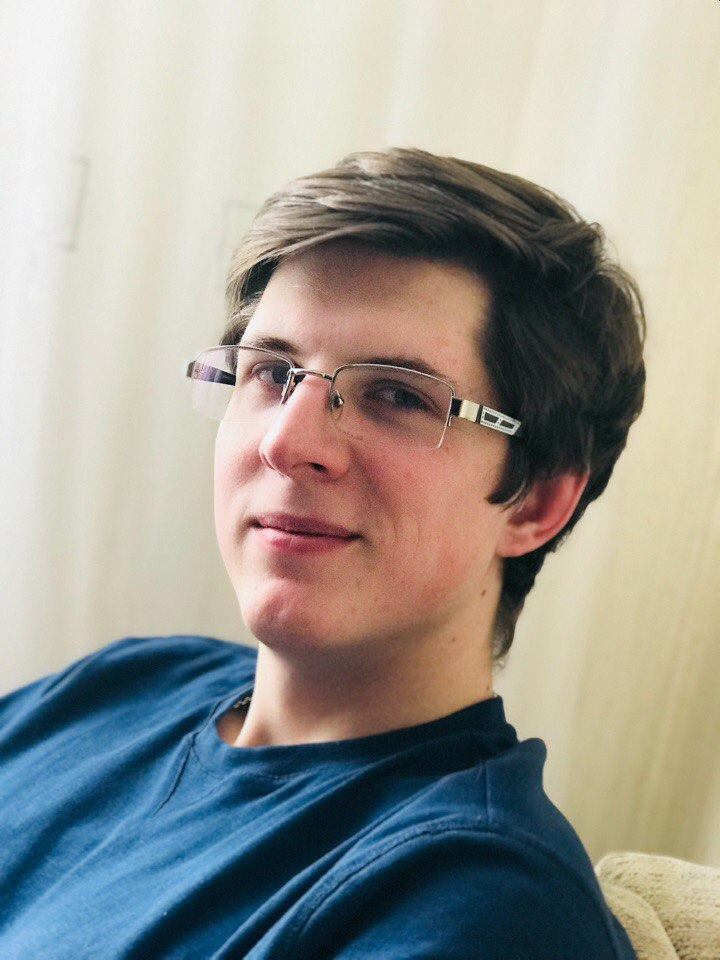
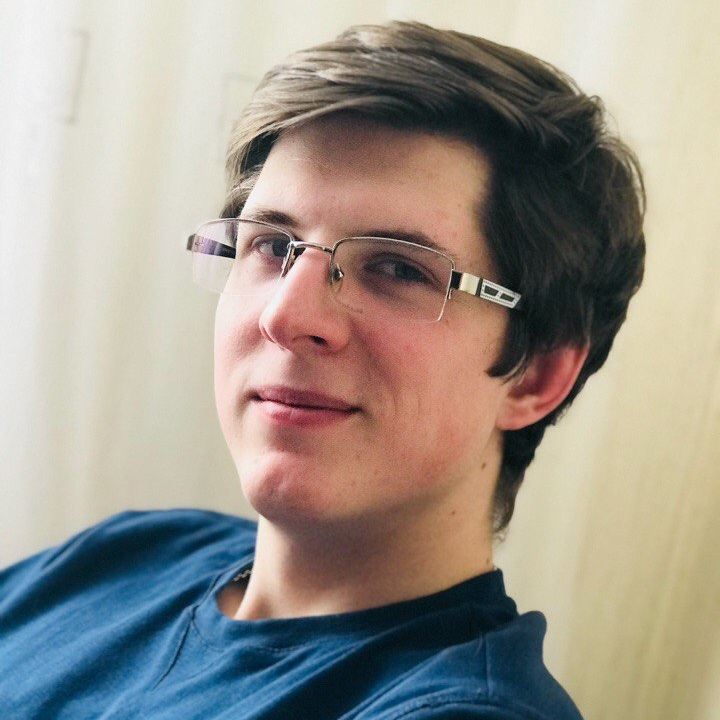
feat: add script.js

diff --git a/index.html b/index.html
@@ -5,67 +5,84 @@
    </title>
    <link rel="stylesheet" type="text/css" href="css/style.css">
    <meta http-equiv="Cotent-type" content="text/html;charset=utf-8">
+   <meta name="vieport" content="width=device-width"> 
 </head>
 <body>
-   <div class="contact">
+   <header>
+      <nav>
+         <ul>
+            <li>Shkel Egor</li>
+            <li>About me</li>
+            <li>Code examples</li>
+            <li>Work experience</li>
+            <li>Education</li>
+         </ul>
+      </nav>
+   </header>
+   <main>
       <div class="contact-info">
-         <h1>Shkel Egor</h1>
-         <p class="phone">
-            Phone: +375 (25) 731-87-85
+         <div class="my-photo-container">
+            <img src="/img/my_photo.jpg" alt="" class="my-photo">
+         </div>
+         <div class="info">
+            <h1>Shkel Egor</h1>
+            <p class="phone">
+               Phone: +375 (25) 731-87-85
+            </p>
+            <p class="email">
+               Email: skelegor8@gmail.com
+            </p>
+         </div>
+      </div>
+      <div class="about-me">
+         <h2>About me</h2>
+         <p>
+            I graduated from Minsk Radioengineering College in 2013 and I graduated from Belarusian State University of Informatics and Radioelectronics in 2021. My major is system engineer. I’ve learned English language for 1 years. I studied English at the International House. Now I’m learning English at home with Cambridge’s book by Muyphy. I sometimes listen to the radio. I have a pre-intermediate level. I enjoy learning English
          </p>
-         <p class="email">
-            Email: skelegor8@gmail.com
+         <br>
+         <p>
+            My specialty in college was programming. When I graduated from college, I decided to go to university and study systems engineering. I had different subjects, for example, control programming, testing, creating interface templates, etc. I think that studying at the university is more interesting than in college. The teachers at the college were very young and did not know their subject, but we have good teachers at the university.
          </p>
       </div>
-   </div>
-   <div class="about-me">
-      <h2>About me</h2>
-      <p>
-         I graduated from Minsk Radioengineering College in 2013 and I graduated from Belarusian State University of Informatics and Radioelectronics in 2021. My major is system engineer. I’ve learned English language for 1 years. I studied English at the International House. Now I’m learning English at home with Cambridge’s book by Muyphy. I sometimes listen to the radio. I have a pre-intermediate level. I enjoy learning English
-      </p>
-      <br>
-      <p>
-         My specialty in college was programming. When I graduated from college, I decided to go to university and study systems engineering. I had different subjects, for example, control programming, testing, creating interface templates, etc.I think that studying at the university is more interesting than in college. The teachers at the college were very young and did not know their subject, but we have good teachers at the university.
-      </p>
-   </div>
-   <div class="code-example">
-      <h2>Code examples</h2>
-      <div class="code">
-         <p>function multiply(a, b){</p>
-         <p>   return a * b;</p>
-         <p> }</p>
+      <div class="code-example">
+         <h2>Code examples</h2>
+         <div class="code">
+            <p>function multiply(a, b){</p>
+            <p>   return a * b;</p>
+            <p> }</p>
+         </div>
+         <br>
+         <div class="code">
+            <p>function disemvowel(str) {</p>
+            <p>return str.replace(/[AaEeIiOoUu]/g, '');</p>
+            <p>}</p>
+         </div>
       </div>
-      <br>
-      <div class="code">
-         <p>function disemvowel(str) {</p>
-         <p>return str.replace(/[AaEeIiOoUu]/g, '');</p>
-         <p>}</p>
+      <div class="work-experience">
+         <h2>Work experience</h2>
+         <p>
+            Now I’m working as a specialist in search engine optimization for an online store. I promote the website in the search engines Google and Yandex. This sphere is dying. Because buying ads in Google and Yandex search engines is much more profitable. I have tasks such as: taking photo of products, writing technical documentation for copywriter and programmer.
+         </p>
       </div>
-   </div>
-   <div class="work-experience">
-      <h2>Work experience</h2>
-      <p>
-         Now I’m working as a specialist in search engine optimization for an online store. I promote the website in the search engines Google and Yandex. This sphere is dying. Because buying ads in Google and Yandex search engines is much more profitable. I have tasks such as: taking photo of products, writing technical documentation for copywriter and programmer.
-      </p>
-   </div>
-   <div class="education">
-      <h2>Education</h2>
-      <p>
-         Secondary vocational 2013 - 2017. Minsk State Higher Radio Engineering College, Minsk.Speciality: Programming Technician.
-      </p>
-      <p>
-         Higher (Evening) 2017 - 2021 Institute of Information Technologies, Belarusian State University of Informatics and Radioelectronics, Minsk. Speciality: Systems engineer.
-      </p>
-      <p>
-         Language skills: Russian – native, English – Pre-intermediate.
-      </p>
-   </div>
+      <div class="education">
+         <h2>Education</h2>
+         <p>
+            Secondary vocational 2013 - 2017. Minsk State Higher Radio Engineering College, Minsk.Speciality: Programming Technician.
+         </p>
+         <p>
+            Higher (Evening) 2017 - 2021 Institute of Information Technologies, Belarusian State University of Informatics and Radioelectronics, Minsk. Speciality: Systems engineer.
+         </p>
+         <p>
+            Language skills: Russian – native, English – Pre-intermediate.
+         </p>
+      </div>
+   </main>
+   <footer>
+      <a href="https://github.com/skelegor8" target="_blank"><img src="/img/icon/icons8-github.svg" alt="" class="git-img"></a>
+   
+      <p class="year">Курс «JavaScript/Front-end» 2021 ©</p>
+   
+      <a href="https://rs.school/js/" target="_blank"><img src="/img/icon/rs_school_js.svg" alt="" class="rs-img"></a>
+   </footer>
 </body>
-<footer>
-   <a href="https://github.com/skelegor8"><img src="/img/icon/icons8-github.svg" alt="" class="git-img"></a>
-
-   <p class="year">Курс «JavaScript/Front-end» 2021 ©</p>
-
-   <a href="https://rs.school/js/"><img src="/img/icon/rs_school_js.svg" alt="" class="rs-img"></a>
-</footer>
 </html>

diff --git a/css/style.css b/css/style.css
@@ -57,40 +57,53 @@ h2{
 }
 
 p{
-   display: block;
+   text-align: justify;
 }
 
-.contact{
-   height: 500px;
-   margin: 15px 300px 10px 300px;
-   padding: 20px 20px 20px 20px;
-   background: white url("../img/my_photo.jpg") 0 0/contain no-repeat;
-} 
+.my-photo-container{
+   position: relative;
+   margin-top: auto;
+   margin-bottom: 2rem;
+}
+
+.my-photo{
+   display: block;
+   width: 300px;
+   height: 300px;
+   border-radius: 50%;
+}
 
 .contact-info{
-   margin: 15px 250px 10px 500px;
+   height: 340px;
+   margin: 20px 400px 10px 400px;
+   padding: 20px 20px 20px 20px;
+   background: white;
+}
+
+.info{
+   margin: -200px 0 0 800px;
 }
 
 .about-me{
-   margin: 10px 300px 10px 300px;
+   margin: 10px 400px 10px 400px;
    padding: 20px 20px 20px 20px;
    background-color: white;
 }
 
 .code-example{
-   margin: 10px 300px 10px 300px;
+   margin: 10px 400px 10px 400px;
    padding: 20px 20px 20px 20px;
    background-color: white;
 }
 
 .work-experience{
-   margin: 10px 300px 10px 300px;
+   margin: 10px 400px 10px 400px;
    padding: 20px 20px 20px 20px;
    background-color: white;
 }
 
 .education{
-   margin: 10px 300px 10px 300px;
+   margin: 10px 400px 10px 400px;
    padding: 20px 20px 20px 20px;
    background-color: white;
 }
@@ -98,7 +111,7 @@ p{
 footer{
    padding: 20px 20px 20px 20px;
    font-family: Calibri;
-   margin: 10px 300px 20px 300px;
+   margin: 10px 400px 20px 400px;
    background: slategray;
    color: white;
 }
@@ -110,7 +123,7 @@ footer{
 
 .year{
    display: inline-block;
-   margin: 0 30% 0 30%;
+   margin: 0 26% 0 26%;
 }
 
 .rs-img{
